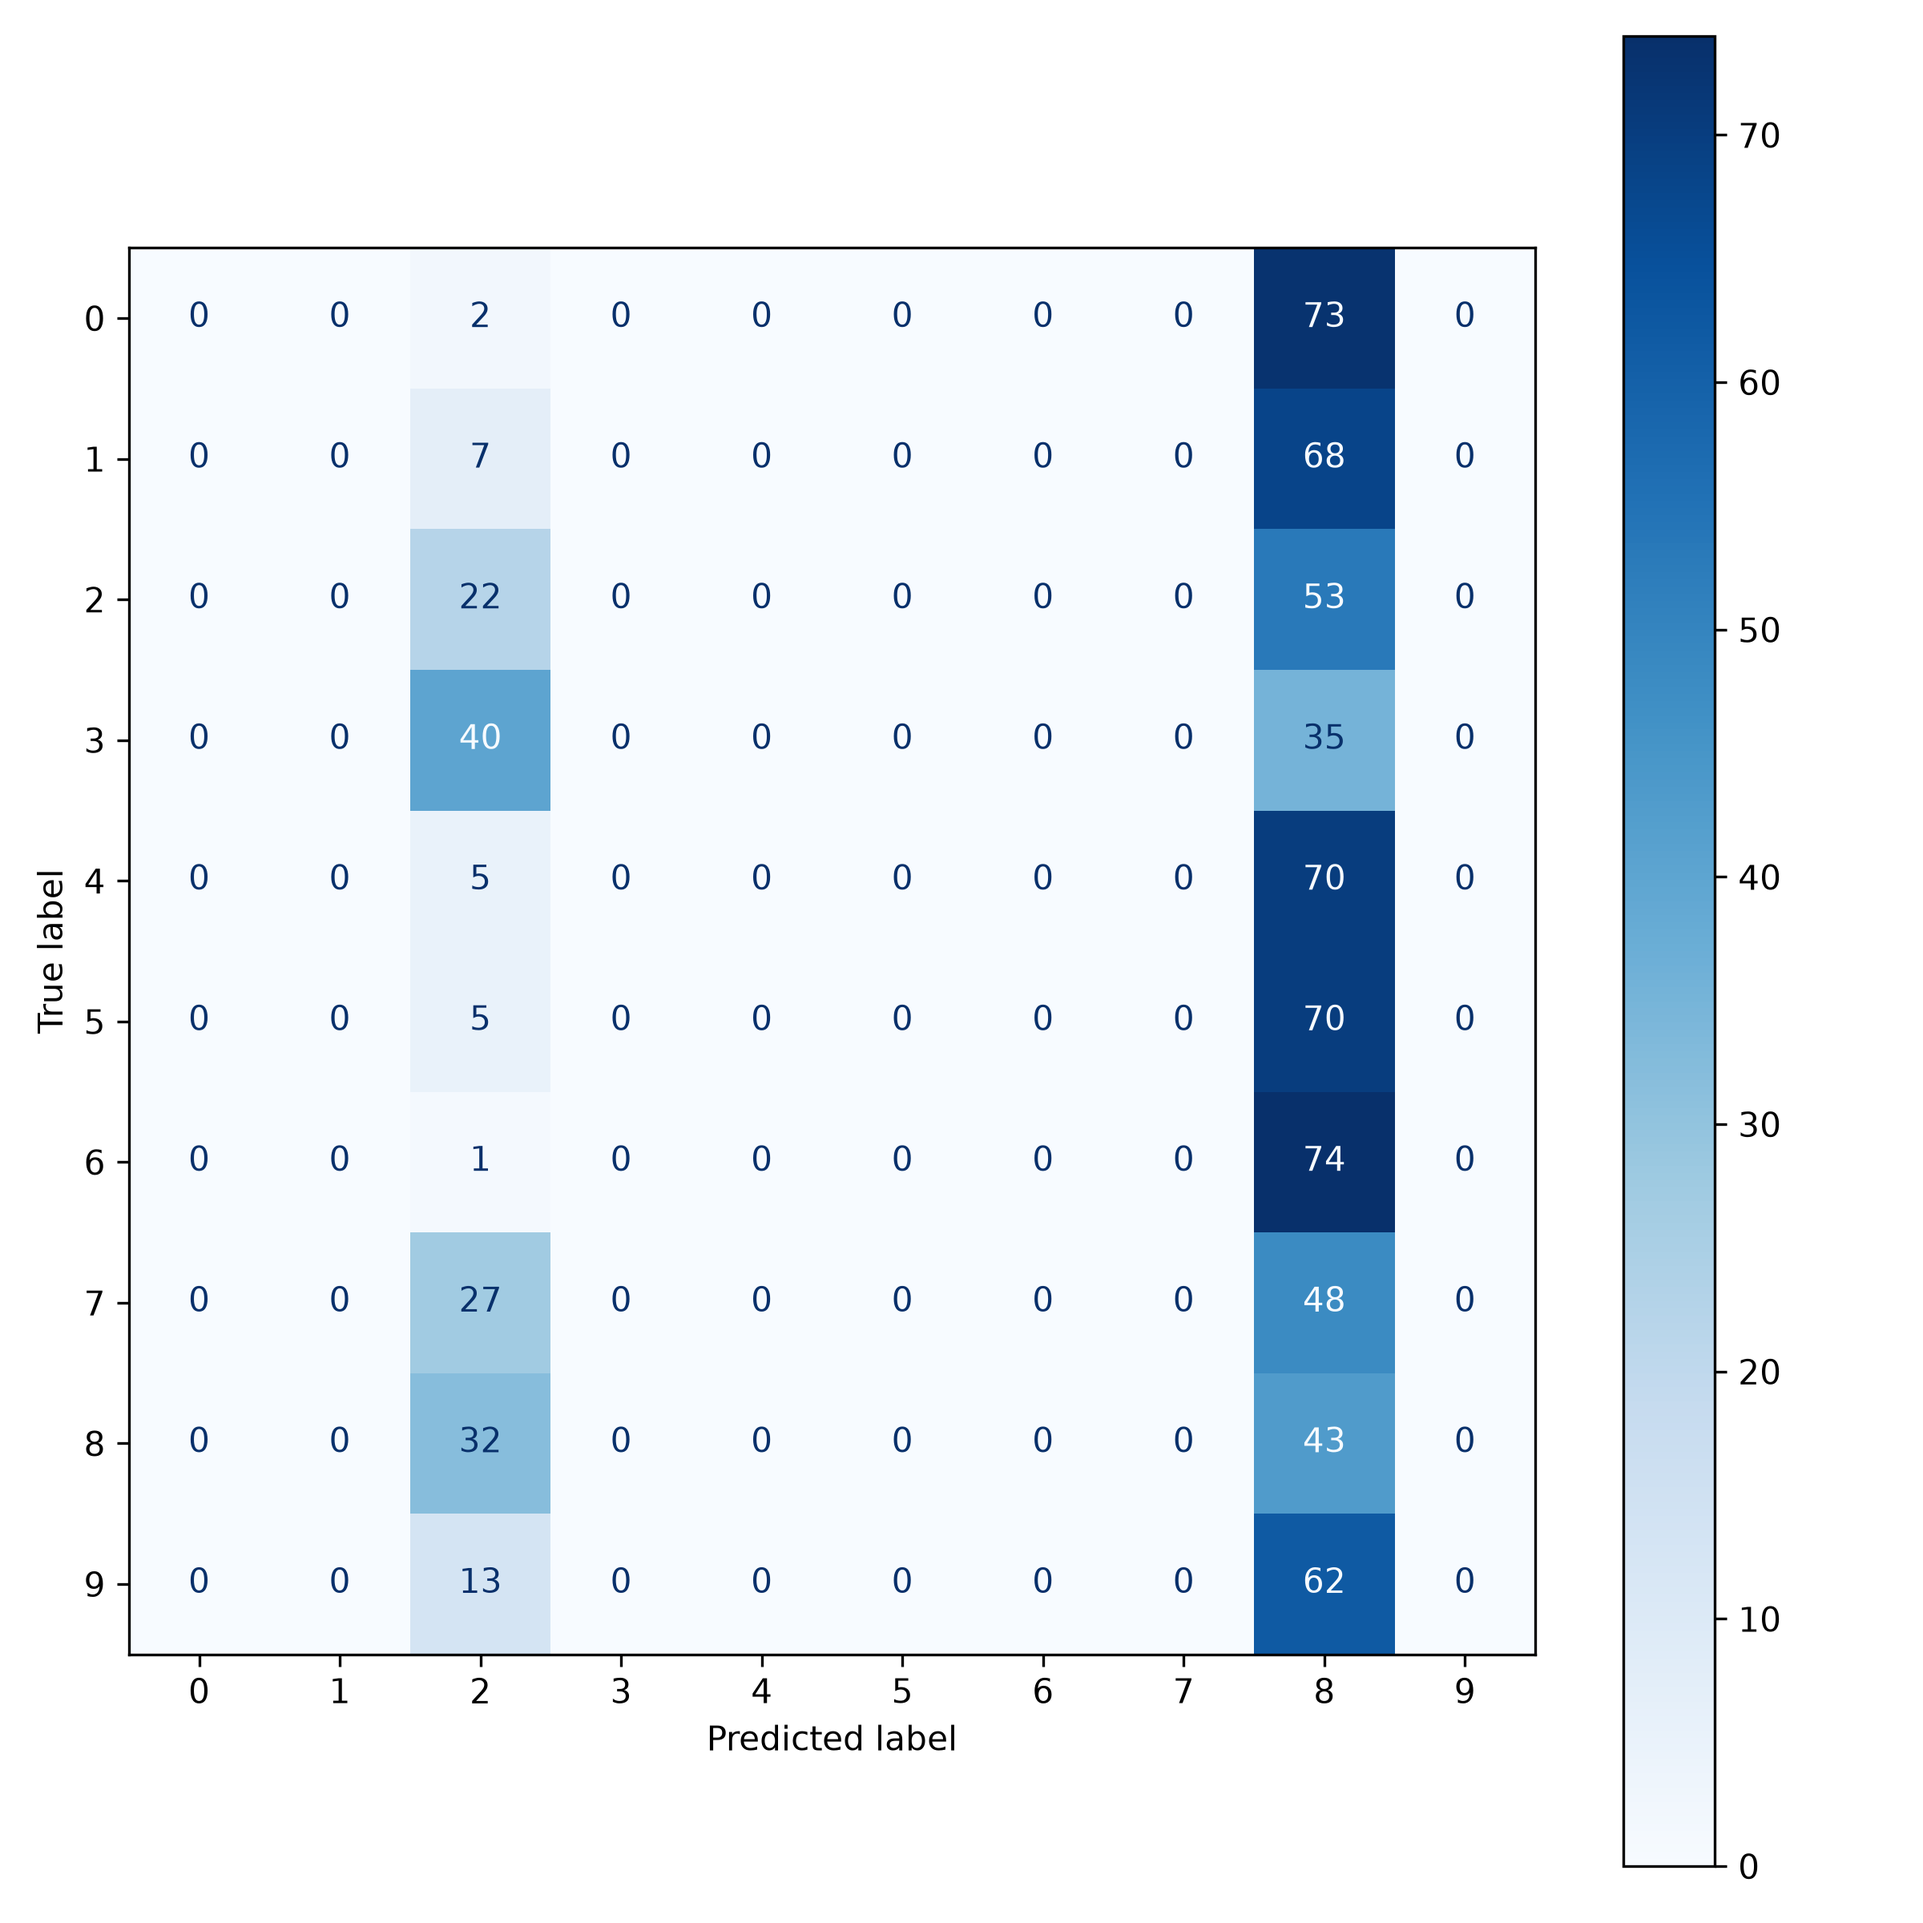
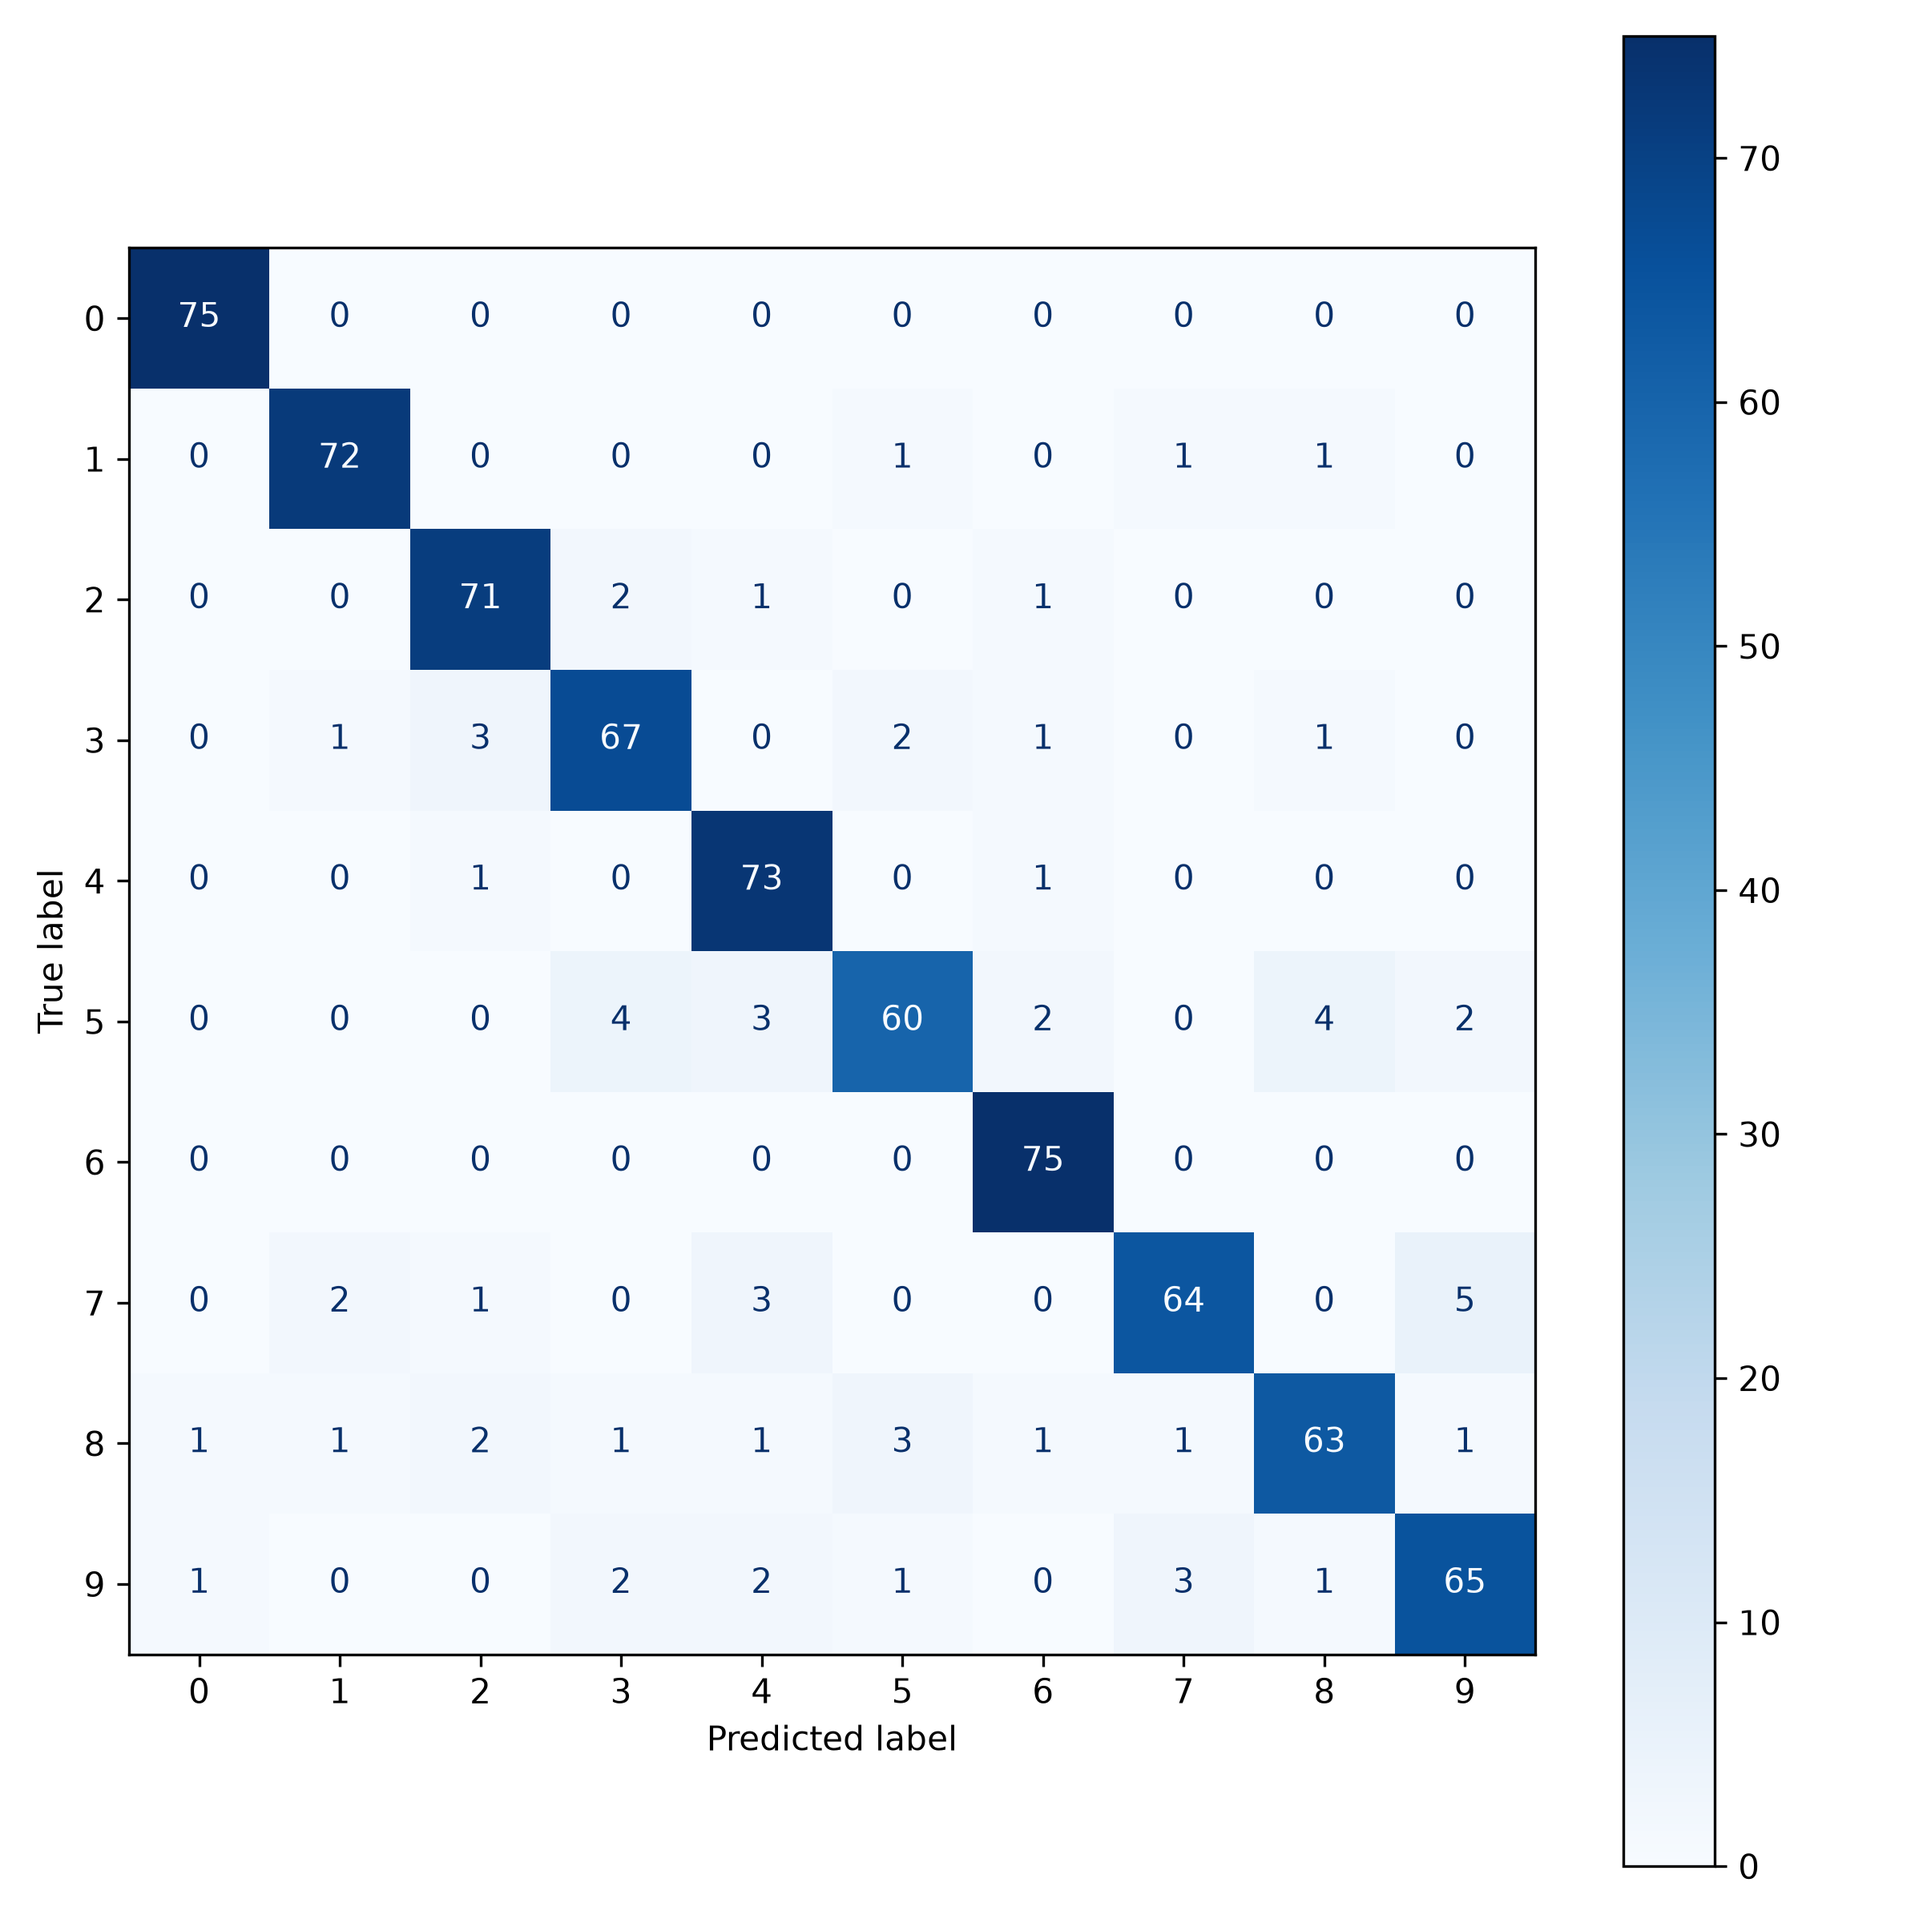
feat: add dataset infrormation analysis

diff --git a/train.py b/train.py
@@ -5,12 +5,15 @@ from src.models.neural_network import DigitClassifier
 from src.training.trainer import Trainer
 from src.evaluation.metrics import ModelEvaluator
 from src.config import (DATA_PATH,MODEL_PATH,LEARNING_RATE,EPOCHS)
+from src.data.eda import DataAnalyzer
 
 
 
 def main() -> None:
     loader = DigitDataLoader(DATA_PATH)
     x,y = loader.load()
+    analyzer = DataAnalyzer(x, y)
+    analyzer.dataset_info()
     print("X Shape:", x.shape)
     print("Y Shape:", y.shape)
     x_train, x_val, x_test, y_train, y_val, y_test = DataPreprocessor.split_data(x, y)
@@ -32,9 +35,9 @@ def main() -> None:
     print(f"Test Accuracy: {accuracy:.2f}%")
 
     prediction = trainer.predict(x_test[:5])
-    print("Prediction", prediction)
-    print("Actual")
-    print(y_test[:5])
+    print("Sample Prediction")
+    for pred, actual in zip(prediction, y_test[:5].tolist()):
+        print(f"Prediction:{pred} | Actual:{actual}")
 
     metrics = evaluator.calculate_metrics(model, x_test, y_test)
     print("\n===== Evaluation Metrics =====")

diff --git a/src/data/eda.py b/src/data/eda.py
@@ -1,0 +1,23 @@
+from pathlib import Path
+import pandas as pd
+import torch
+
+class DataAnalyzer:
+    def __init__(self,x:torch.Tensor,y:torch.Tensor):
+        self.x = x
+        self.y = y
+
+    def dataset_info(self) -> None:
+        df = pd.DataFrame(self.x.numpy())
+        print("=" * 30)
+        print("Dataset Information")
+        print("=" * 30)
+    
+        print(f"Number of Samples : {df.shape[0]}")
+        print(f"Number of Features: {df.shape[1]}")
+
+        print("\nData Types")
+        print(df.dtypes.value_counts())
+
+        print("\nFirst Five Rows")
+        print(df.head())

diff --git a/src/config.py b/src/config.py
@@ -6,5 +6,5 @@ BASE_DIR = Path(__file__).resolve().parent.parent
 DATA_PATH = ("C:/Users/User/Desktop/Machine learning exercise/data1/data/ex3data1.mat")
 MODEL_DIR = (BASE_DIR/ "models")
 MODEL_PATH = ("./models/digit_classifier.pth")
-LEARNING_RATE = 0.001
-EPOCHS = 300
+LEARNING_RATE = 0.1
+EPOCHS = 3000
